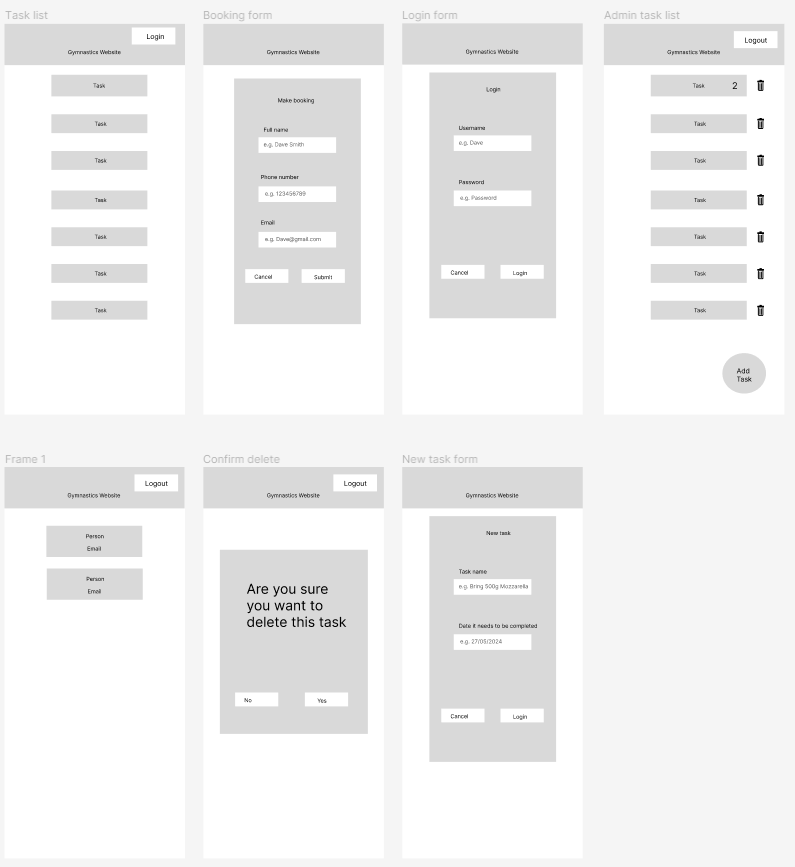
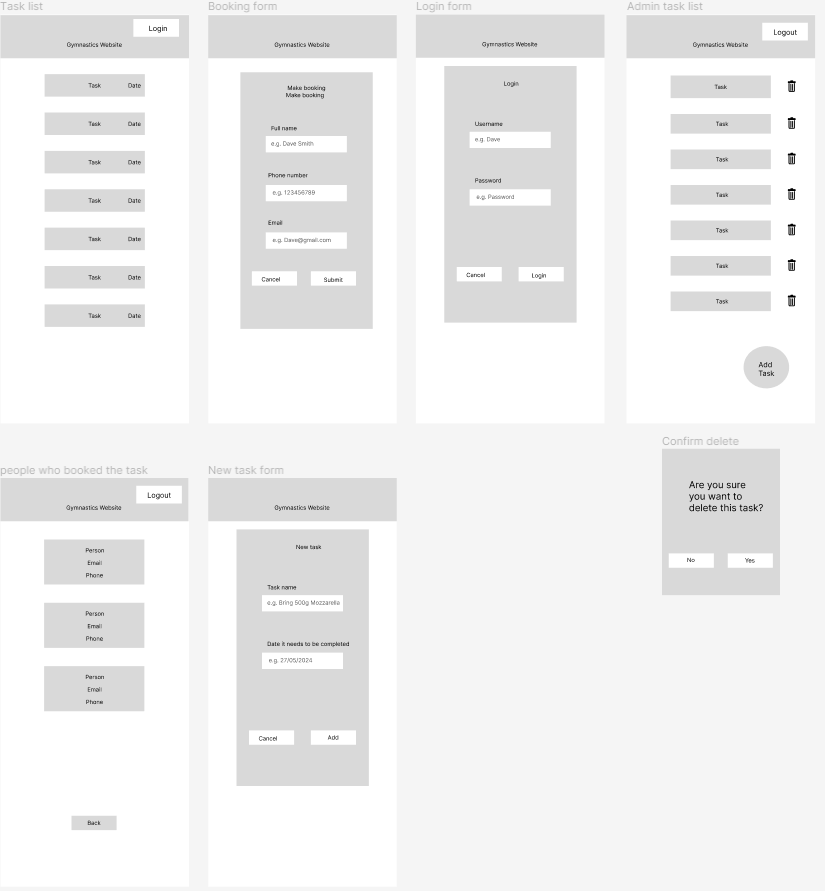
responded to client feedback

diff --git a/Development.md b/Development.md
@@ -21,14 +21,14 @@ Today I designed the first database draft
 
 ### 20/05/2024
 
-Created UI flowchart
+Creating UI flowchart
 
-Today I made the first flowchart draft so i could see how the website would work
+Today I made the first flowchart draft so I could see how the website would work
 ![UI flowchart](images/flowchart.png)
 
 ### 20/05/2024
 
-Created first figma design
+Creating first figma design
 
 Today I drafted the first figma UI design so I could see how my website would look, and also get feedback from my client.
 
@@ -39,19 +39,37 @@ Today I drafted the first figma UI design so I could see how my website would lo
 I got feedback from my client and they said
 >Instead of having the user input their surname and forename separately, it will be easier for them input at the same time. Add an option for the user to input their email because that is the way they will be contacted.
 
-![Feedback for figma UI design](images/figma-feedback.png)
+![Feedback for figma UI design](images/figma-feedback.png)  
 I responded to this feedback by removing the surname option and just having full name option. I also made sure the end-user can input their email as this will be the main form of contacting the end-user.
 
 ![Database design v2](images/database-designv2.png)
 Since my client wanted the end-user to input their full name and email, I needed to change the database design
 
-![Figma UI design v2](images/figma-UI-designv2.png)
-Today I added an option for the admin to login
+![Alt text](images/figma-UI%20designv2.png)
+Today I added an option for the admin to login, but I couldn't finish the delete task button. I also added the date next to the task. Accidentally clicked on the top task button, not meant to have blue outline.
+
 ### 27/05/2024
 
-Replace this test with what you are working on
+Today I am finishing the admin log in page.
+
+![Alt text](images/figma-UI-designv3.png)
+I finished the admin login page, finishing the delete task button and adding an add task button. I also made it so the admin can click on a task to see the people doing that task, as well as their contact information.
+
+![Alt text](images/flowchartv2.png)
+Today I have also changer the flowchart to show that the admin can view what people are doing the task.
+
+### 30/05/2024
+
+I got feedback from my client and they said
+>When the admin is deleting a task instead of having the task confirmation on a new page, just have it on the same page
 
 ![Alt text](image.png)
+
+I responded to this feedback by doing what they said and making it overlap the page.
+
+### DATE HERE
+
+Replace this test with what you are working on
 
 Replace this text with brief notes describing what you worked on, any decisions you made, any changes to designs, etc. Add screenshots / links to other media to illustrate your notes where necessary.
 
